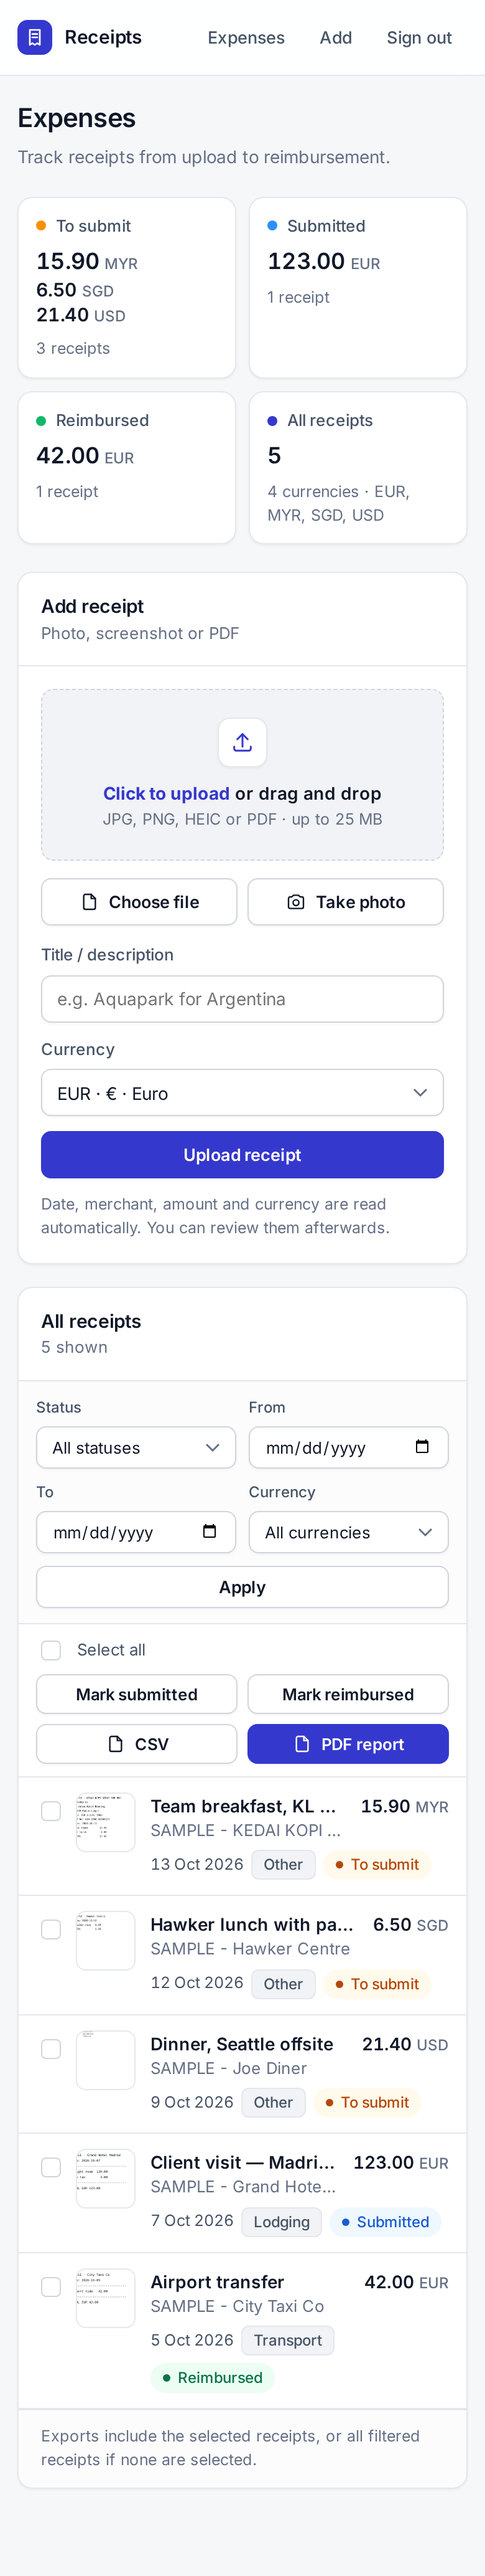
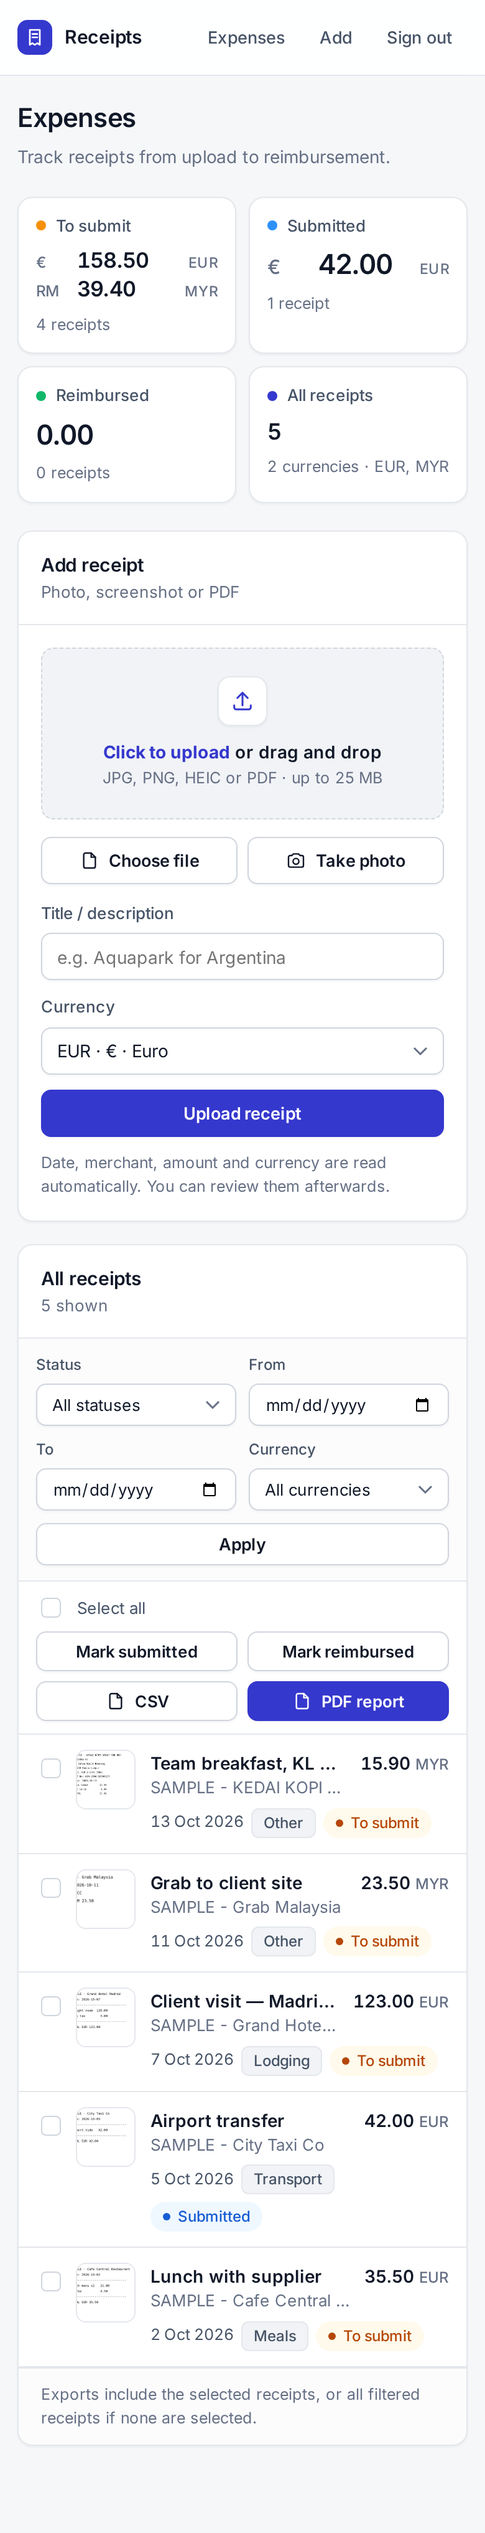
PDF: remove all status info, total claimed per currency; stat cards: one line per currency in fixed order

diff --git a/pdfreport.py b/pdfreport.py
@@ -8,7 +8,7 @@ from reportlab.lib.enums import TA_RIGHT
 from reportlab.pdfbase import pdfmetrics
 from reportlab.pdfbase.ttfonts import TTFont
 from reportlab.platypus import BaseDocTemplate, PageTemplate, Frame, Paragraph, Spacer, Table, TableStyle, PageBreak, Image as RLImage
-from ui import STATUS_ES, CAT_ES, fecha, money
+from ui import CAT_ES, fecha, money, cur_sorted
 
 F = os.path.join(os.path.dirname(os.path.abspath(__file__)), "fonts")
 try:
@@ -19,7 +19,6 @@ except Exception:
     R, B = "Helvetica", "Helvetica-Bold"
 TEXT, TEXT2, MUTED = colors.HexColor("#101828"), colors.HexColor("#475467"), colors.HexColor("#667085")
 BORDER, SUBTLE, ACCENT = colors.HexColor("#e4e7ec"), colors.HexColor("#f6f7f9"), colors.HexColor("#3538cd")
-PILL = {"to submit": "#b54708", "submitted": "#175cd3", "reimbursed": "#067647"}
 
 def st(name, parent=None, **kw):
     if parent is not None: return ParagraphStyle(name, parent=parent, **kw)
@@ -52,35 +51,32 @@ def build_pdf(rows, thumbs_dir):
     doc = BaseDocTemplate(buf, pagesize=A4, title="Expense report", author="Receipts", leftMargin=18*mm, rightMargin=18*mm, topMargin=24*mm, bottomMargin=20*mm)
     doc.addPageTemplates([PageTemplate(frames=[Frame(doc.leftMargin, doc.bottomMargin, doc.width, doc.height, id="f", leftPadding=0, rightPadding=0, topPadding=0, bottomPadding=0)], onPage=_page)])
     W = doc.width
-    tot, bys = {}, {}
-    for r in rows:
-        tot[r["currency"]] = tot.get(r["currency"], 0) + r["amount"]
-        bys.setdefault(r["status"], {}).setdefault(r["currency"], 0); bys[r["status"]][r["currency"]] += r["amount"]
+    tot = {}
+    for r in rows: tot[r["currency"]] = tot.get(r["currency"], 0) + r["amount"]
+    tot = cur_sorted(tot)
     dates = sorted(r["date"] for r in rows if r["date"])
     period = f"{fecha(dates[0])} – {fecha(dates[-1])}" if dates else "—"
-    el = [Paragraph("Expense report", st("t", fontName=B, fontSize=20, leading=24)), Spacer(1, 2*mm),
-          Paragraph(f"Reimbursement claim · {len(rows)} {'receipt' if len(rows)==1 else 'receipts'} · {period}", st("sub", fontSize=9.5, textColor=TEXT2)), Spacer(1, 7*mm)]
-    # summary cards
-    def amt_lines(d): return "<br/>".join(f"<font name='{B}' size='13'>{money(v)}</font> <font size='8' color='#667085'>{c}</font>" for c, v in d.items()) or f"<font name='{B}' size='13'>0.00</font>"
-    cells = [[Paragraph("TOTAL CLAIMED", HDR), Paragraph("TO SUBMIT", HDR), Paragraph("SUBMITTED", HDR), Paragraph("REIMBURSED", HDR)],
-             [Paragraph(amt_lines(tot), st("v", leading=17)), Paragraph(amt_lines(bys.get("to submit", {})), st("v1", leading=17)),
-              Paragraph(amt_lines(bys.get("submitted", {})), st("v2", leading=17)), Paragraph(amt_lines(bys.get("reimbursed", {})), st("v3", leading=17))]]
-    sc = Table(cells, colWidths=[W/4]*4)
-    sc.setStyle(TableStyle([("BOX", (0, 0), (-1, -1), 0.6, BORDER), ("LINEAFTER", (0, 0), (-2, -1), 0.6, BORDER), ("BACKGROUND", (0, 0), (-1, -1), SUBTLE),
-        ("BACKGROUND", (0, 0), (0, -1), colors.HexColor("#eef0ff")), ("VALIGN", (0, 0), (-1, -1), "TOP"),
-        ("LEFTPADDING", (0, 0), (-1, -1), 10), ("TOPPADDING", (0, 0), (-1, 0), 9), ("BOTTOMPADDING", (0, -1), (-1, -1), 10)]))
-    el += [sc, Spacer(1, 8*mm), Paragraph("Receipts", st("h2", fontName=B, fontSize=11, leading=14)), Spacer(1, 3*mm)]
-    data = [[Paragraph(x, HDR if x != "AMOUNT" else st("hr", parent=HDR, alignment=TA_RIGHT)) for x in ["#", "DATE", "DESCRIPTION", "CATEGORY", "STATUS", "AMOUNT"]]]
-    for i, r in enumerate(rows, 1):
-        desc = f"<font name='{B}'>{r['title'] or r['merchant'] or '—'}</font>" + (f"<br/><font size='7.5' color='#667085'>{r['merchant']}</font>" if r["title"] and r["merchant"] else "")
-        data.append([Paragraph(str(i), st("n", fontSize=8.5, textColor=MUTED)), Paragraph(fecha(r["date"]), CELL), Paragraph(desc, CELL),
-                     Paragraph(CAT_ES.get(r["category"], r["category"]), CELL),
-                     Paragraph(f"<font color='{PILL.get(r['status'], '#475467')}'>● </font>{STATUS_ES.get(r['status'], r['status'])}", CELL),
-                     Paragraph(f"{money(r['amount'])} <font size='7.5' color='#667085'>{r['currency']}</font>", st("a", parent=CELLB, alignment=TA_RIGHT))])
-    for c, v in tot.items():
-        data.append(["", "", Paragraph("Total", CELLB), "", "", Paragraph(f"{money(v)} <font size='7.5' color='#667085'>{c}</font>", st("ta", parent=CELLB, alignment=TA_RIGHT))])
     n = len(rows)
-    t = Table(data, colWidths=[8*mm, 24*mm, W - 8*mm - 24*mm - 24*mm - 26*mm - 32*mm, 24*mm, 26*mm, 32*mm], repeatRows=1)
+    el = [Paragraph("Expense report", st("t", fontName=B, fontSize=20, leading=24)), Spacer(1, 2*mm),
+          Paragraph(f"Reimbursement claim · {n} {'receipt' if n==1 else 'receipts'} · {period}", st("sub", fontSize=9.5, textColor=TEXT2)), Spacer(1, 7*mm)]
+    # total claimed: one line per currency
+    tl = [[Paragraph("TOTAL CLAIMED", HDR), ""]] + [[Paragraph(c, st("tc", fontName=B, fontSize=10, textColor=TEXT2)),
+          Paragraph(f"{money(v)}", st("tv", fontName=B, fontSize=14, leading=18, alignment=TA_RIGHT))] for c, v in tot] if tot else [[Paragraph("TOTAL CLAIMED", HDR), Paragraph("0.00", st("tv0", fontName=B, fontSize=14, alignment=TA_RIGHT))]]
+    tt = Table(tl, colWidths=[30*mm, 50*mm], hAlign="LEFT")
+    tt.setStyle(TableStyle([("BOX", (0, 0), (-1, -1), 0.6, BORDER), ("BACKGROUND", (0, 0), (-1, -1), colors.HexColor("#eef0ff")),
+        ("LINEBELOW", (0, 1), (-1, -2), 0.5, colors.HexColor("#d9dcfb")), ("VALIGN", (0, 0), (-1, -1), "MIDDLE"),
+        ("LEFTPADDING", (0, 0), (-1, -1), 10), ("RIGHTPADDING", (0, 0), (-1, -1), 10), ("TOPPADDING", (0, 0), (-1, -1), 6), ("BOTTOMPADDING", (0, 0), (-1, -1), 6), ("SPAN", (0, 0), (-1, 0))]))
+    el += [tt, Spacer(1, 8*mm), Paragraph("Receipts", st("h2", fontName=B, fontSize=11, leading=14)), Spacer(1, 3*mm)]
+    data = [[Paragraph(x, HDR if x != "AMOUNT" else st("hr", parent=HDR, alignment=TA_RIGHT)) for x in ["#", "DATE", "TITLE", "MERCHANT", "CATEGORY", "AMOUNT"]]]
+    for i, r in enumerate(rows, 1):
+        data.append([Paragraph(str(i), st("n", fontSize=8.5, textColor=MUTED)), Paragraph(fecha(r["date"]), CELL),
+                     Paragraph(r["title"] or "—", CELLB), Paragraph(r["merchant"] or "—", st("m", fontSize=8, leading=11, textColor=TEXT2)),
+                     Paragraph(CAT_ES.get(r["category"], r["category"]), CELL),
+                     Paragraph(f"{money(r['amount'])} <font size='7.5' color='#667085'>{r['currency']}</font>", st("a", parent=CELLB, alignment=TA_RIGHT))])
+    for c, v in tot:
+        data.append(["", "", Paragraph("Total", CELLB), "", "", Paragraph(f"{money(v)} <font size='7.5' color='#667085'>{c}</font>", st("ta", parent=CELLB, alignment=TA_RIGHT))])
+    rest = W - 8*mm - 23*mm - 24*mm - 30*mm
+    t = Table(data, colWidths=[8*mm, 23*mm, rest*0.52, rest*0.48, 24*mm, 30*mm], repeatRows=1)
     style = [("BACKGROUND", (0, 0), (-1, 0), SUBTLE), ("LINEBELOW", (0, 0), (-1, -1), 0.5, BORDER), ("BOX", (0, 0), (-1, -1), 0.6, BORDER),
              ("VALIGN", (0, 0), (-1, -1), "MIDDLE"), ("TOPPADDING", (0, 0), (-1, -1), 6), ("BOTTOMPADDING", (0, 0), (-1, -1), 6),
              ("LEFTPADDING", (0, 0), (-1, -1), 6), ("RIGHTPADDING", (0, 0), (-1, -1), 6)]
@@ -91,10 +87,10 @@ def build_pdf(rows, thumbs_dir):
         el.append(PageBreak())
         el.append(Paragraph(f"RECEIPT {i} OF {n}", HDR)); el.append(Spacer(1, 2*mm))
         el.append(Paragraph(r["title"] or r["merchant"] or "—", st("rt", fontName=B, fontSize=15, leading=19))); el.append(Spacer(1, 4*mm))
-        meta = [[Paragraph("MERCHANT", HDR), Paragraph("DATE", HDR), Paragraph("CATEGORY", HDR), Paragraph("STATUS", HDR), Paragraph("AMOUNT", st("hr2", parent=HDR, alignment=TA_RIGHT))],
+        meta = [[Paragraph("MERCHANT", HDR), Paragraph("DATE", HDR), Paragraph("CATEGORY", HDR), Paragraph("AMOUNT", st("hr2", parent=HDR, alignment=TA_RIGHT))],
                 [Paragraph(r["merchant"] or "—", CELL), Paragraph(fecha(r["date"]), CELL), Paragraph(CAT_ES.get(r["category"], r["category"]), CELL),
-                 Paragraph(STATUS_ES.get(r["status"], r["status"]), CELL), Paragraph(f"{money(r['amount'])} {r['currency']}", st("ma", parent=CELLB, fontSize=11, alignment=TA_RIGHT))]]
-        mt = Table(meta, colWidths=[W*0.30, W*0.17, W*0.17, W*0.16, W*0.20])
+                 Paragraph(f"{money(r['amount'])} {r['currency']}", st("ma", parent=CELLB, fontSize=11, alignment=TA_RIGHT))]]
+        mt = Table(meta, colWidths=[W*0.38, W*0.20, W*0.20, W*0.22])
         mt.setStyle(TableStyle([("BOX", (0, 0), (-1, -1), 0.6, BORDER), ("BACKGROUND", (0, 0), (-1, 0), SUBTLE), ("LINEBELOW", (0, 0), (-1, 0), 0.5, BORDER),
             ("TOPPADDING", (0, 0), (-1, -1), 6), ("BOTTOMPADDING", (0, 0), (-1, -1), 6), ("LEFTPADDING", (0, 0), (-1, -1), 8), ("RIGHTPADDING", (0, 0), (-1, -1), 8)]))
         el.append(mt)

diff --git a/ui.py b/ui.py
@@ -16,6 +16,13 @@ CUR_INFO = {  # code: (symbol, name)
 CUR_MAIN = ["EUR", "USD", "MYR", "SGD"]
 CUR_OTHER = [c for c in CUR_INFO if c not in CUR_MAIN]
 
+CUR_ORDER = CUR_MAIN + CUR_OTHER
+def cur_sorted(d):
+    """dict currency->amount, ordered EUR, USD, MYR, SGD, then the rest, unknown codes last."""
+    return sorted(d.items(), key=lambda kv: (CUR_ORDER.index(kv[0]) if kv[0] in CUR_ORDER else 999, kv[0]))
+def sym(c):
+    return CUR_INFO.get(c, (c,))[0]
+
 def fecha(d):
     try: y, m, dd = d.split("-"); return f"{int(dd)} {MESES[int(m)-1]} {y}"
     except Exception: return d or ""
@@ -74,6 +81,11 @@ main{max-width:1240px;margin:0 auto;padding:28px 24px 80px}
 .stat .v{font-size:22px;font-weight:600;letter-spacing:-.02em;margin-top:8px;line-height:1.25;font-variant-numeric:tabular-nums}
 .stat .v small{font-size:12px;font-weight:500;color:var(--muted);margin-left:4px;letter-spacing:0}
 .stat .v.more{font-size:15px;margin-top:2px}
+.stat .lines{margin-top:8px;display:flex;flex-direction:column;gap:2px}
+.stat .ln{font-size:22px;font-weight:600;letter-spacing:-.02em;line-height:1.25;font-variant-numeric:tabular-nums;display:flex;align-items:baseline;gap:6px}
+.stat .multi .ln{font-size:17px}
+.stat .ln .sy{color:var(--muted);font-weight:500;font-size:.72em;min-width:2.2em}
+.stat .ln small{font-size:11.5px;font-weight:500;color:var(--muted);margin-left:auto;letter-spacing:.02em}
 .stat .f{margin-top:8px;font-size:12.5px;color:var(--muted)}
 .dot{width:8px;height:8px;border-radius:50%;display:inline-block}
 .d-to{background:#f79009}.d-submitted{background:#2e90fa}.d-reimbursed{background:#12b76a}.d-all{background:var(--accent)}
@@ -194,7 +206,7 @@ INDEX = HEAD + """<title>Expenses · Receipts</title></head><body>""" + TOP + ""
 <div class=ph><div><h1>Expenses</h1><p>Track receipts from upload to reimbursement.</p></div>
 <a href="#add" class=btn>""" + ICON_PLUS + """ New receipt</a></div>
 <section class=stats>{% for s in statuses %}<div class="card stat"><div class=k><span class="dot d-{{s.split()[0]}}"></span>{{ST[s]}}</div>
-{% for c,v in totals[s].items() %}<div class="v{{' more' if not loop.first}}">{{money(v)}}<small>{{c}}</small></div>{% else %}<div class=v>0.00</div>{% endfor %}
+{% set tl = cur_sorted(totals[s]) %}<div class="lines{{' multi' if tl|length > 1}}">{% for c,v in tl %}<div class=ln><span class=sy>{{sym(c)}}</span>{{money(v)}}<small>{{c}}</small></div>{% else %}<div class=ln>0.00</div>{% endfor %}</div>
 <div class=f>{{counts[s]}} {{'receipt' if counts[s]==1 else 'receipts'}}</div></div>{% endfor %}
 <div class="card stat"><div class=k><span class="dot d-all"></span>All receipts</div><div class=v>{{rows|length}}</div>
 <div class=f>{{used|length}} {{'currency' if used|length==1 else 'currencies'}}{% if used %} · {{used|join(', ')}}{% endif %}</div></div></section>

diff --git a/app.py b/app.py
@@ -139,9 +139,9 @@ def selected(form):
     if ids: return db().execute("SELECT * FROM receipts WHERE id IN (%s) ORDER BY date" % ",".join("?"*len(ids)), ids).fetchall()
     return list(reversed(query(form)))
 
-from ui import INDEX, EDIT, LOGIN, STATUS_ES, CAT_ES, fecha, money, CUR_MAIN, CUR_OTHER, CUR_INFO
+from ui import INDEX, EDIT, LOGIN, STATUS_ES, CAT_ES, fecha, money, CUR_MAIN, CUR_OTHER, CUR_INFO, cur_sorted, sym
 CODES = list(CUR_INFO)
-app.jinja_env.globals.update(ST=STATUS_ES, CAT=CAT_ES, fecha=fecha, money=money, CUR_MAIN=CUR_MAIN, CUR_OTHER=CUR_OTHER, CUR_INFO=CUR_INFO)
+app.jinja_env.globals.update(ST=STATUS_ES, CAT=CAT_ES, fecha=fecha, money=money, CUR_MAIN=CUR_MAIN, CUR_OTHER=CUR_OTHER, CUR_INFO=CUR_INFO, cur_sorted=cur_sorted, sym=sym)
 @app.route("/login", methods=["GET","POST"])
 def login():
     err = None
@@ -168,7 +168,7 @@ def index():
         if r["status"] in totals:
             totals[r["status"]][r["currency"]] = totals[r["status"]].get(r["currency"],0) + r["amount"]; counts[r["status"]] += 1
     return render_template_string(INDEX, rows=rows, totals=totals, counts=counts, statuses=STATUSES, a=request.args, last_cur=session.get("cur", "EUR"),
-        used=[x[0] for x in db().execute("SELECT DISTINCT currency FROM receipts ORDER BY currency")])
+        used=[c for c, _ in cur_sorted({x[0]: 0 for x in db().execute("SELECT DISTINCT currency FROM receipts")})])
 
 @app.post("/upload")
 def upload():
